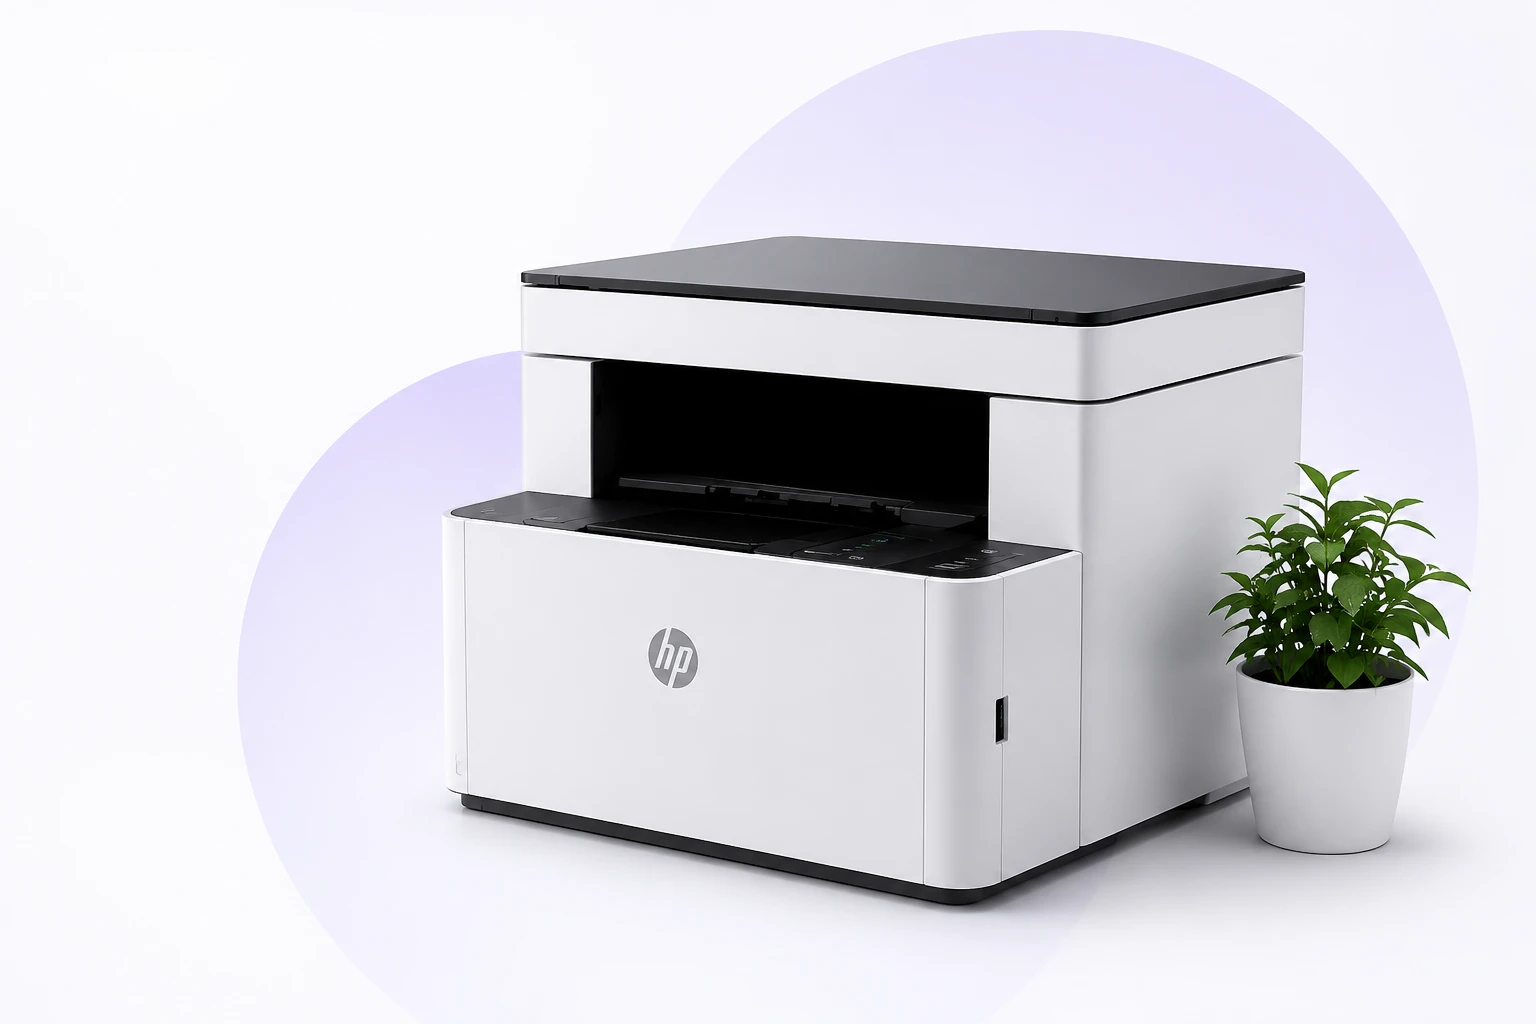
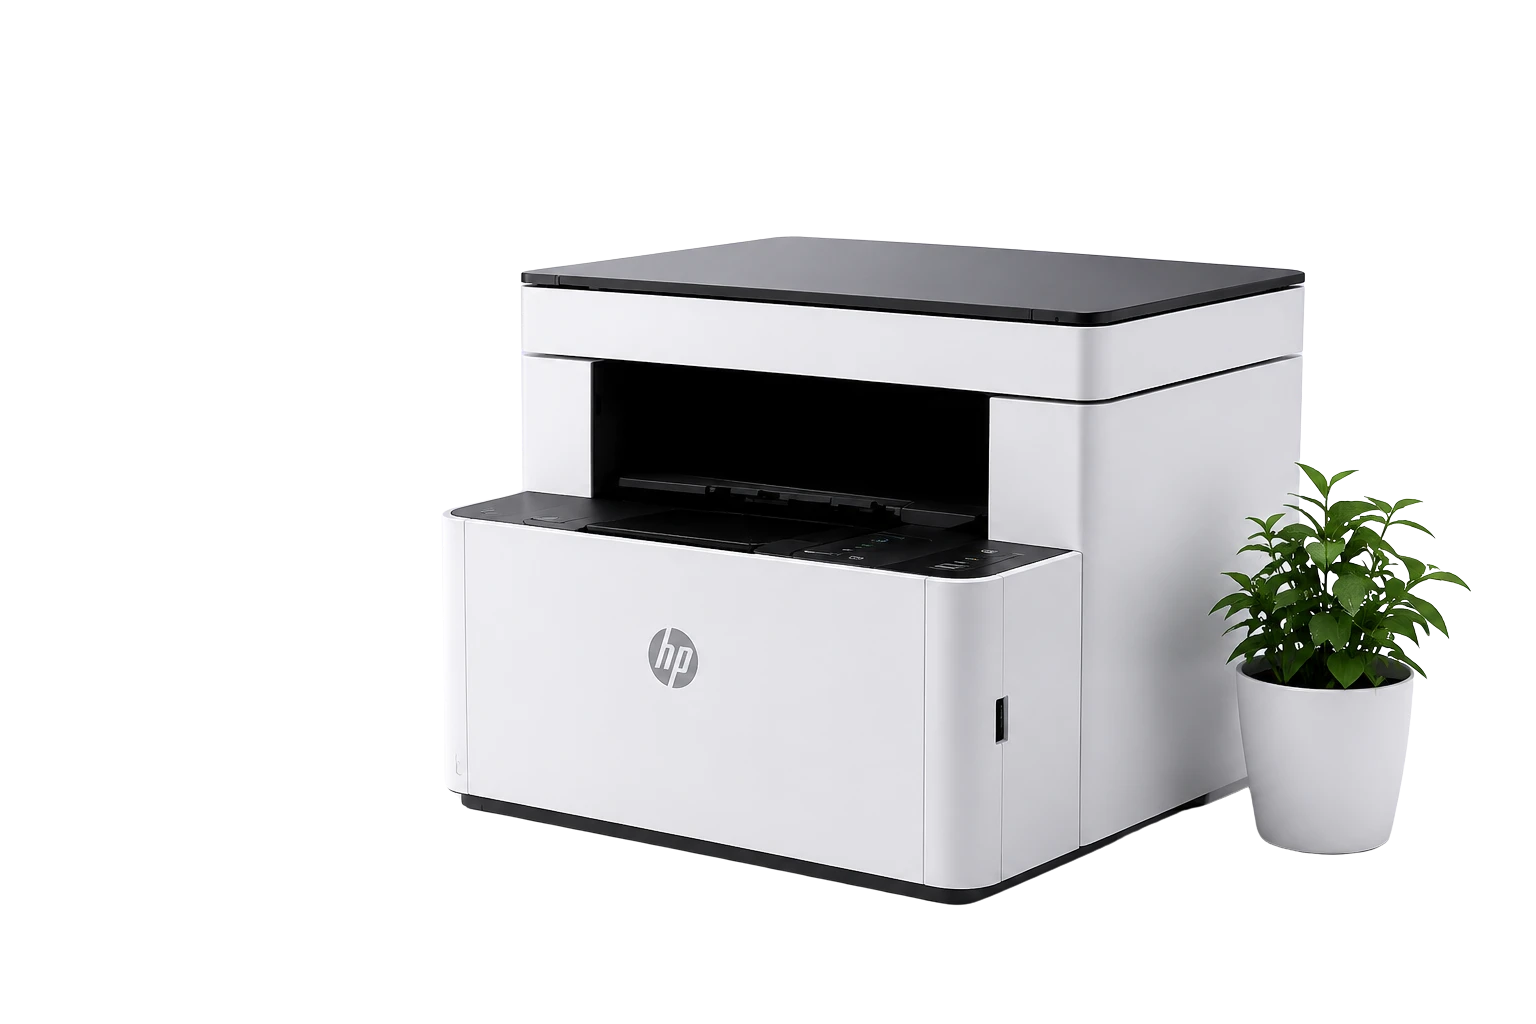
hero: transparent-cutout printer photo, larger (640px) with halo circle

diff --git a/index.html b/index.html
@@ -341,9 +341,11 @@
 
       <!-- Right: printer photo -->
       <div class="relative hidden lg:flex items-center justify-center pb-12 self-stretch">
-        <div class="relative w-full max-w-[560px]">
+        <div class="relative w-full max-w-[640px]">
+          <!-- soft circle halo behind the transparent cutout -->
+          <div class="absolute left-1/2 top-1/2 -translate-x-1/2 -translate-y-1/2 w-[460px] max-w-[86%] aspect-square rounded-full bg-gradient-to-br from-white to-[#e7e0fa] pointer-events-none"></div>
           <!-- Hero product photo -->
-          <img src="images/hero/hero-printer-scene.webp" alt="HP мултифункционален принтер" class="relative z-10 w-full h-auto rounded-3xl object-cover">
+          <img src="images/hero/hero-printer-scene.webp" alt="HP мултифункционален принтер" class="relative z-10 w-full h-auto drop-shadow-2xl">
 
           <!-- Floating badge: in stock -->
           <div class="absolute -top-6 -left-3 z-20 bg-white rounded-2xl shadow-soft border border-line px-4 py-3 flex items-center gap-3">